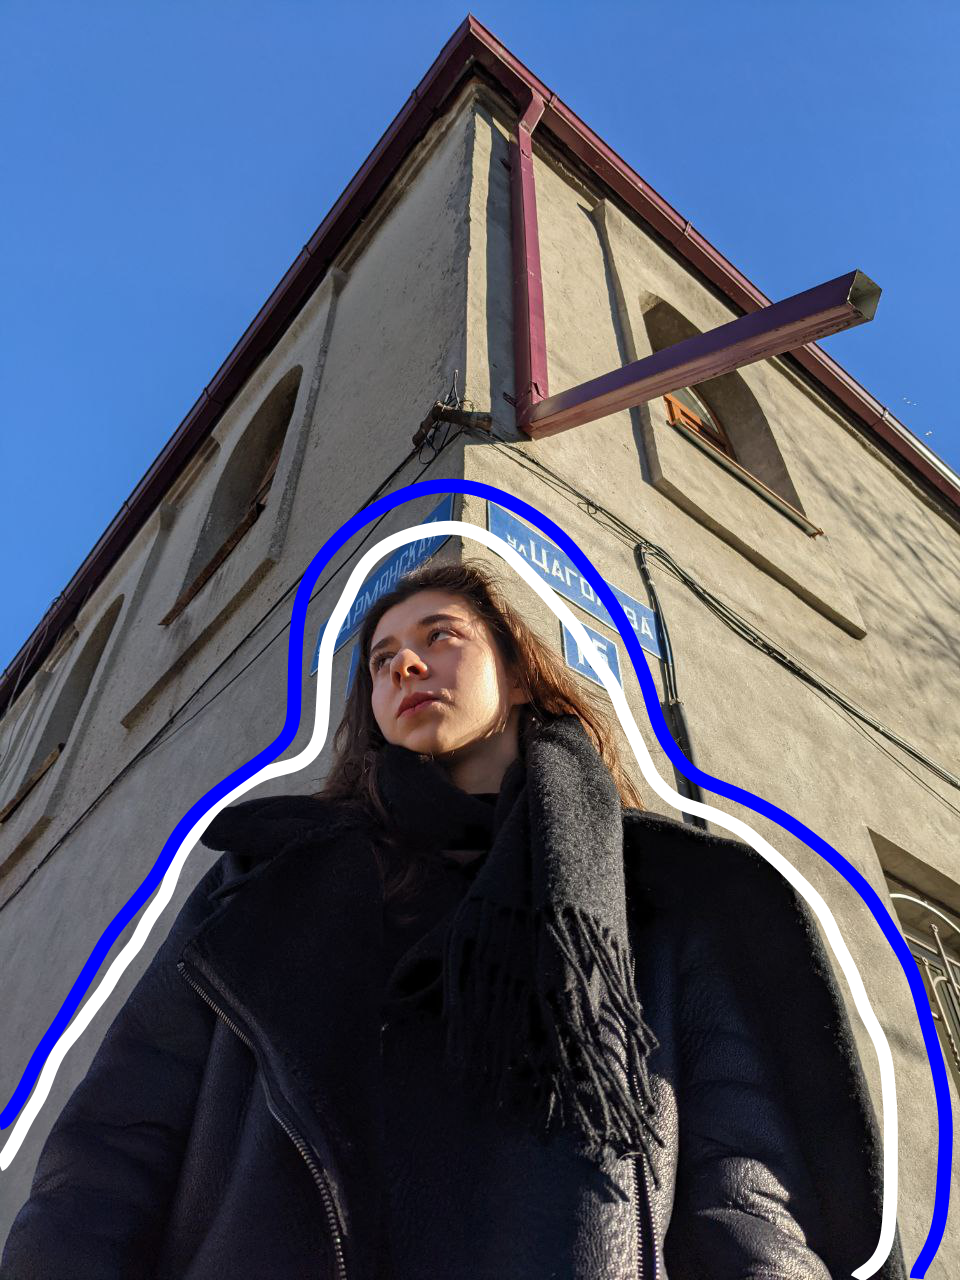
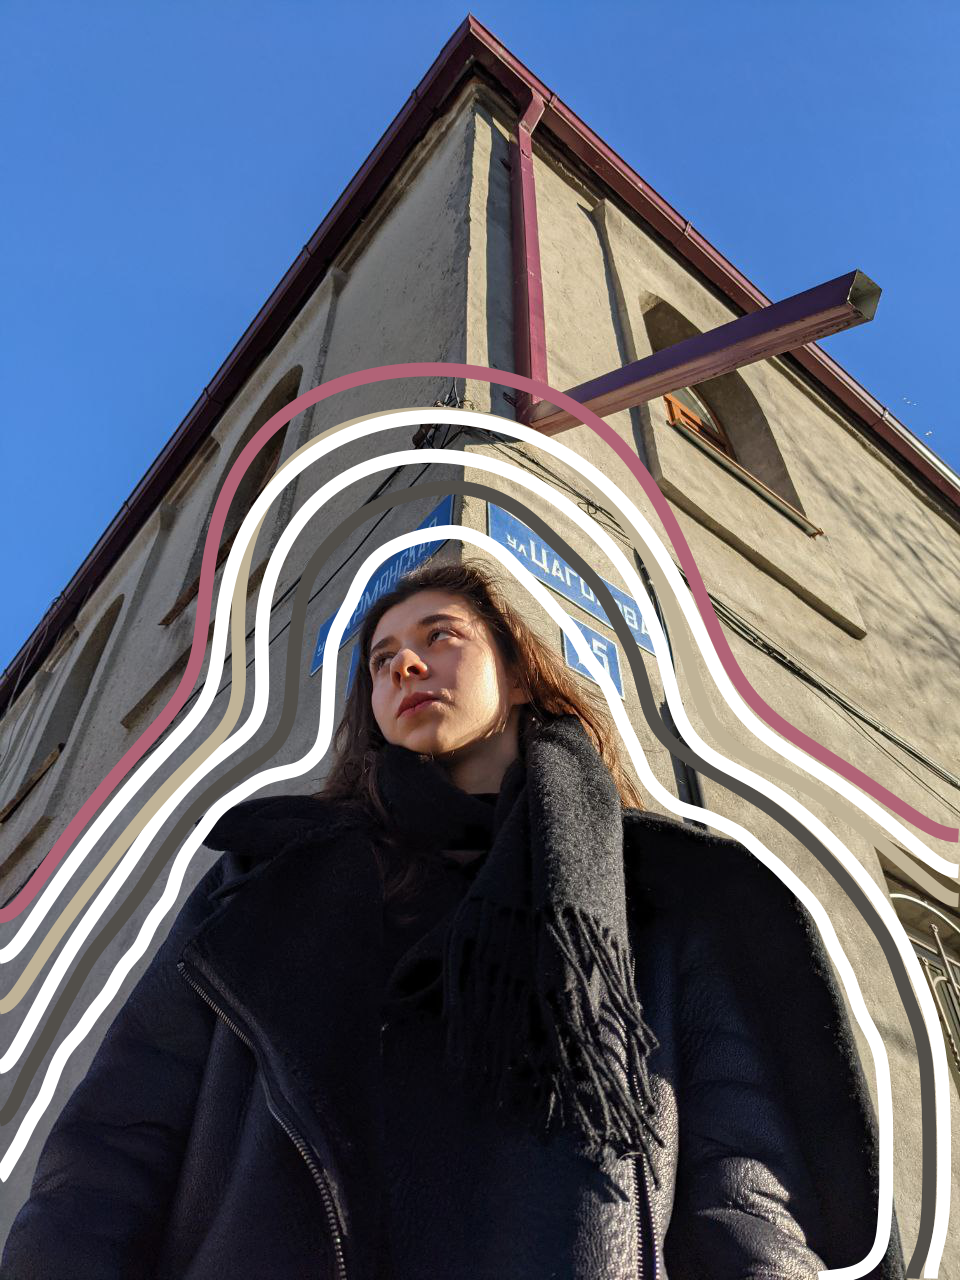
Added web interface and made something in line effect

Changed region(s): [[0.0, 0.2812, 1.0, 1.0]]

diff --git a/image_editor/image_tools/effects/line_effect.py b/image_editor/image_tools/effects/line_effect.py
@@ -1,42 +1,52 @@
 import matplotlib.pyplot as plt
 import numpy as np
-from image_editor.image_tools.effects.utils import apply_mask, get_dpi
 
 from matplotlib.patches import Polygon
 
+from image_editor.image_tools.effects.utils import apply_mask, get_dpi
+
 
 class LineEffect:
-    base_params_keys = ('contours', 'background', 'line_width', 'barrier')
+    base_params_keys = ("contours",)
+    optional_params_values = {"background": None, "line_width": 10, "barrier": 0.5, "facecolor": "none",
+                              "line_color": "white", "line_style": "solid"}
 
     def check_params_keys(self, params_keys):
         for key in self.base_params_keys:
             if key not in params_keys:
-                raise Exception('Wrong line effect params')
+                raise Exception("Wrong line effect params")
 
     def apply(self, img, params):
         # throws exception if params are wrong
         self.check_params_keys(params.keys())
 
-        contours = params['contours']
-        background = params['background']
-        line_width = params['line_width']
-        barrier = params['barrier']
+        # base params
+        contours = params["contours"]
+
+        # optional params
+        background = params["background"] if "background" in params else self.optional_params_values["background"]
+        line_width = params["line_width"] if "line_width" in params else self.optional_params_values["line_width"]
+        barrier = params["barrier"] if "barrier" in params else self.optional_params_values["barrier"]
+        facecolor = params["facecolor"] if "facecolor" in params else self.optional_params_values["facecolor"]
+        line_color = params["line_color"] if "line_color" in params else self.optional_params_values["line_color"]
+        line_style = params["line_style"] if "line_style" in params else self.optional_params_values["line_style"]
 
         my_dpi = get_dpi()
         fig, ax = plt.subplots(1, figsize=(img.shape[1] / my_dpi, img.shape[0] / my_dpi), dpi=my_dpi)
-        ax.axis('off')
+        ax.axis("off")
 
         # Contour
         masked_image = img.astype(np.uint32).copy()
         for verts in contours:
             verts = np.fliplr(verts) - 1  # verts = [x, y]
-            p = Polygon(verts, facecolor="none", edgecolor='w', lw=line_width, closed=False, ls='-', snap=False)
+            p = Polygon(verts, facecolor=facecolor, edgecolor=line_color, lw=line_width, closed=False, ls=line_style,
+                        snap=False)
             ax.add_patch(p)
 
         # Background
         if background is not None:
             masked_image = apply_mask(masked_image, background, color=(1, 1, 0), alpha=1.0, barrier=barrier)
-        ax.imshow(masked_image.astype(np.uint8), aspect='auto')
+        ax.imshow(masked_image.astype(np.uint8), aspect="auto")
         plt.subplots_adjust(top=1, bottom=0, right=1, left=0,
                             hspace=0, wspace=0)
         s, (width, height) = fig.canvas.print_to_buffer()

diff --git a/image_editor/forms.py b/image_editor/forms.py
@@ -7,8 +7,9 @@ class ImageForm(forms.ModelForm):
         model = Image
         fields = ("effect_type", "effect_params", "image")
 
-        placeholder = {'background': None, 'line_width': 10, 'barrier': 0.5, 'gaussian_sigma': 12,
-                       'contour_barrier': 0.01}
+        placeholder = {"background": None, "line_width": 10, "barrier": 0.5, "gaussian_sigma": 12,
+                       "contour_barrier": 0.01,
+                       "line_color": "white", "line_style": "solid", "facecolor": "none"}
         widgets = {
             "effect_params": forms.Textarea(attrs={"placeholder": str(placeholder)}),
         }

diff --git a/image_editor/image_tools/effects/rainbow_effect.py b/image_editor/image_tools/effects/rainbow_effect.py
@@ -1,0 +1,9 @@
+import matplotlib.pyplot as plt
+import numpy as np
+
+from matplotlib.patches import Polygon
+
+from image_editor.image_tools.effects.utils import apply_mask, get_dpi
+
+
+
